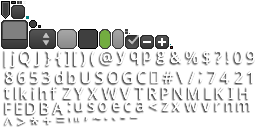
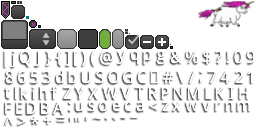
modfied slider

Changed region(s): [[0.75, 0.0, 1.0, 0.2188], [0.0, 0.0312, 0.0312, 0.125]]

diff --git a/gdx-unicorn/src/main/java/de/hochschuletrier/gdw/ws1516/menu/MenuPage.java b/gdx-unicorn/src/main/java/de/hochschuletrier/gdw/ws1516/menu/MenuPage.java
@@ -1,5 +1,6 @@
 package de.hochschuletrier.gdw.ws1516.menu;
 
+import com.badlogic.gdx.graphics.Color;
 import com.badlogic.gdx.graphics.Texture;
 import com.badlogic.gdx.graphics.g2d.Batch;
 import com.badlogic.gdx.scenes.scene2d.Actor;
@@ -18,6 +19,7 @@ import com.badlogic.gdx.scenes.scene2d.utils.ChangeListener;
 import com.badlogic.gdx.scenes.scene2d.utils.ClickListener;
 import com.badlogic.gdx.scenes.scene2d.utils.DragListener;
 import com.badlogic.gdx.scenes.scene2d.utils.SpriteDrawable;
+
 
 
 import de.hochschuletrier.gdw.commons.gdx.assets.AssetManagerX;
@@ -57,12 +59,16 @@ public class MenuPage extends Group {
 
      protected final void addSlider(float min, float max,float stepSize,int x, int y,String text){
         
-        Slider slider = new Slider(min,max,stepSize,false,skin);
+        Slider slider = new Slider(min,max,stepSize,false,skin,"default-horizontal");
         Label label = new Label(text,skin,"default");
-        int size = 250;       
+        int size = 250; 
+        slider.setValue(50);
+//        slider.setColor(Color.PINK);
+        
+
         label.setBounds(x, y+1, 100, 100);
         slider.setBounds(x+70,y,size,100);
-        slider.setValue(50);
+        
         
         Label value= new Label(""+(int)slider.getValue(),skin,"default");
         value.setBounds(x+size+80,y+1,100,100);   
@@ -70,13 +76,11 @@ public class MenuPage extends Group {
             @Override
             public void changed(ChangeEvent event, Actor actor) {
                 value.setText(""+(int)slider.getValue());
-
             }
         });
         addActor(slider);
         addActor(label);
         addActor(value);
-
     }
 
     protected final void addLeftAlignedButton(int x, int y, int width, int height, String text,Runnable runnable) {
